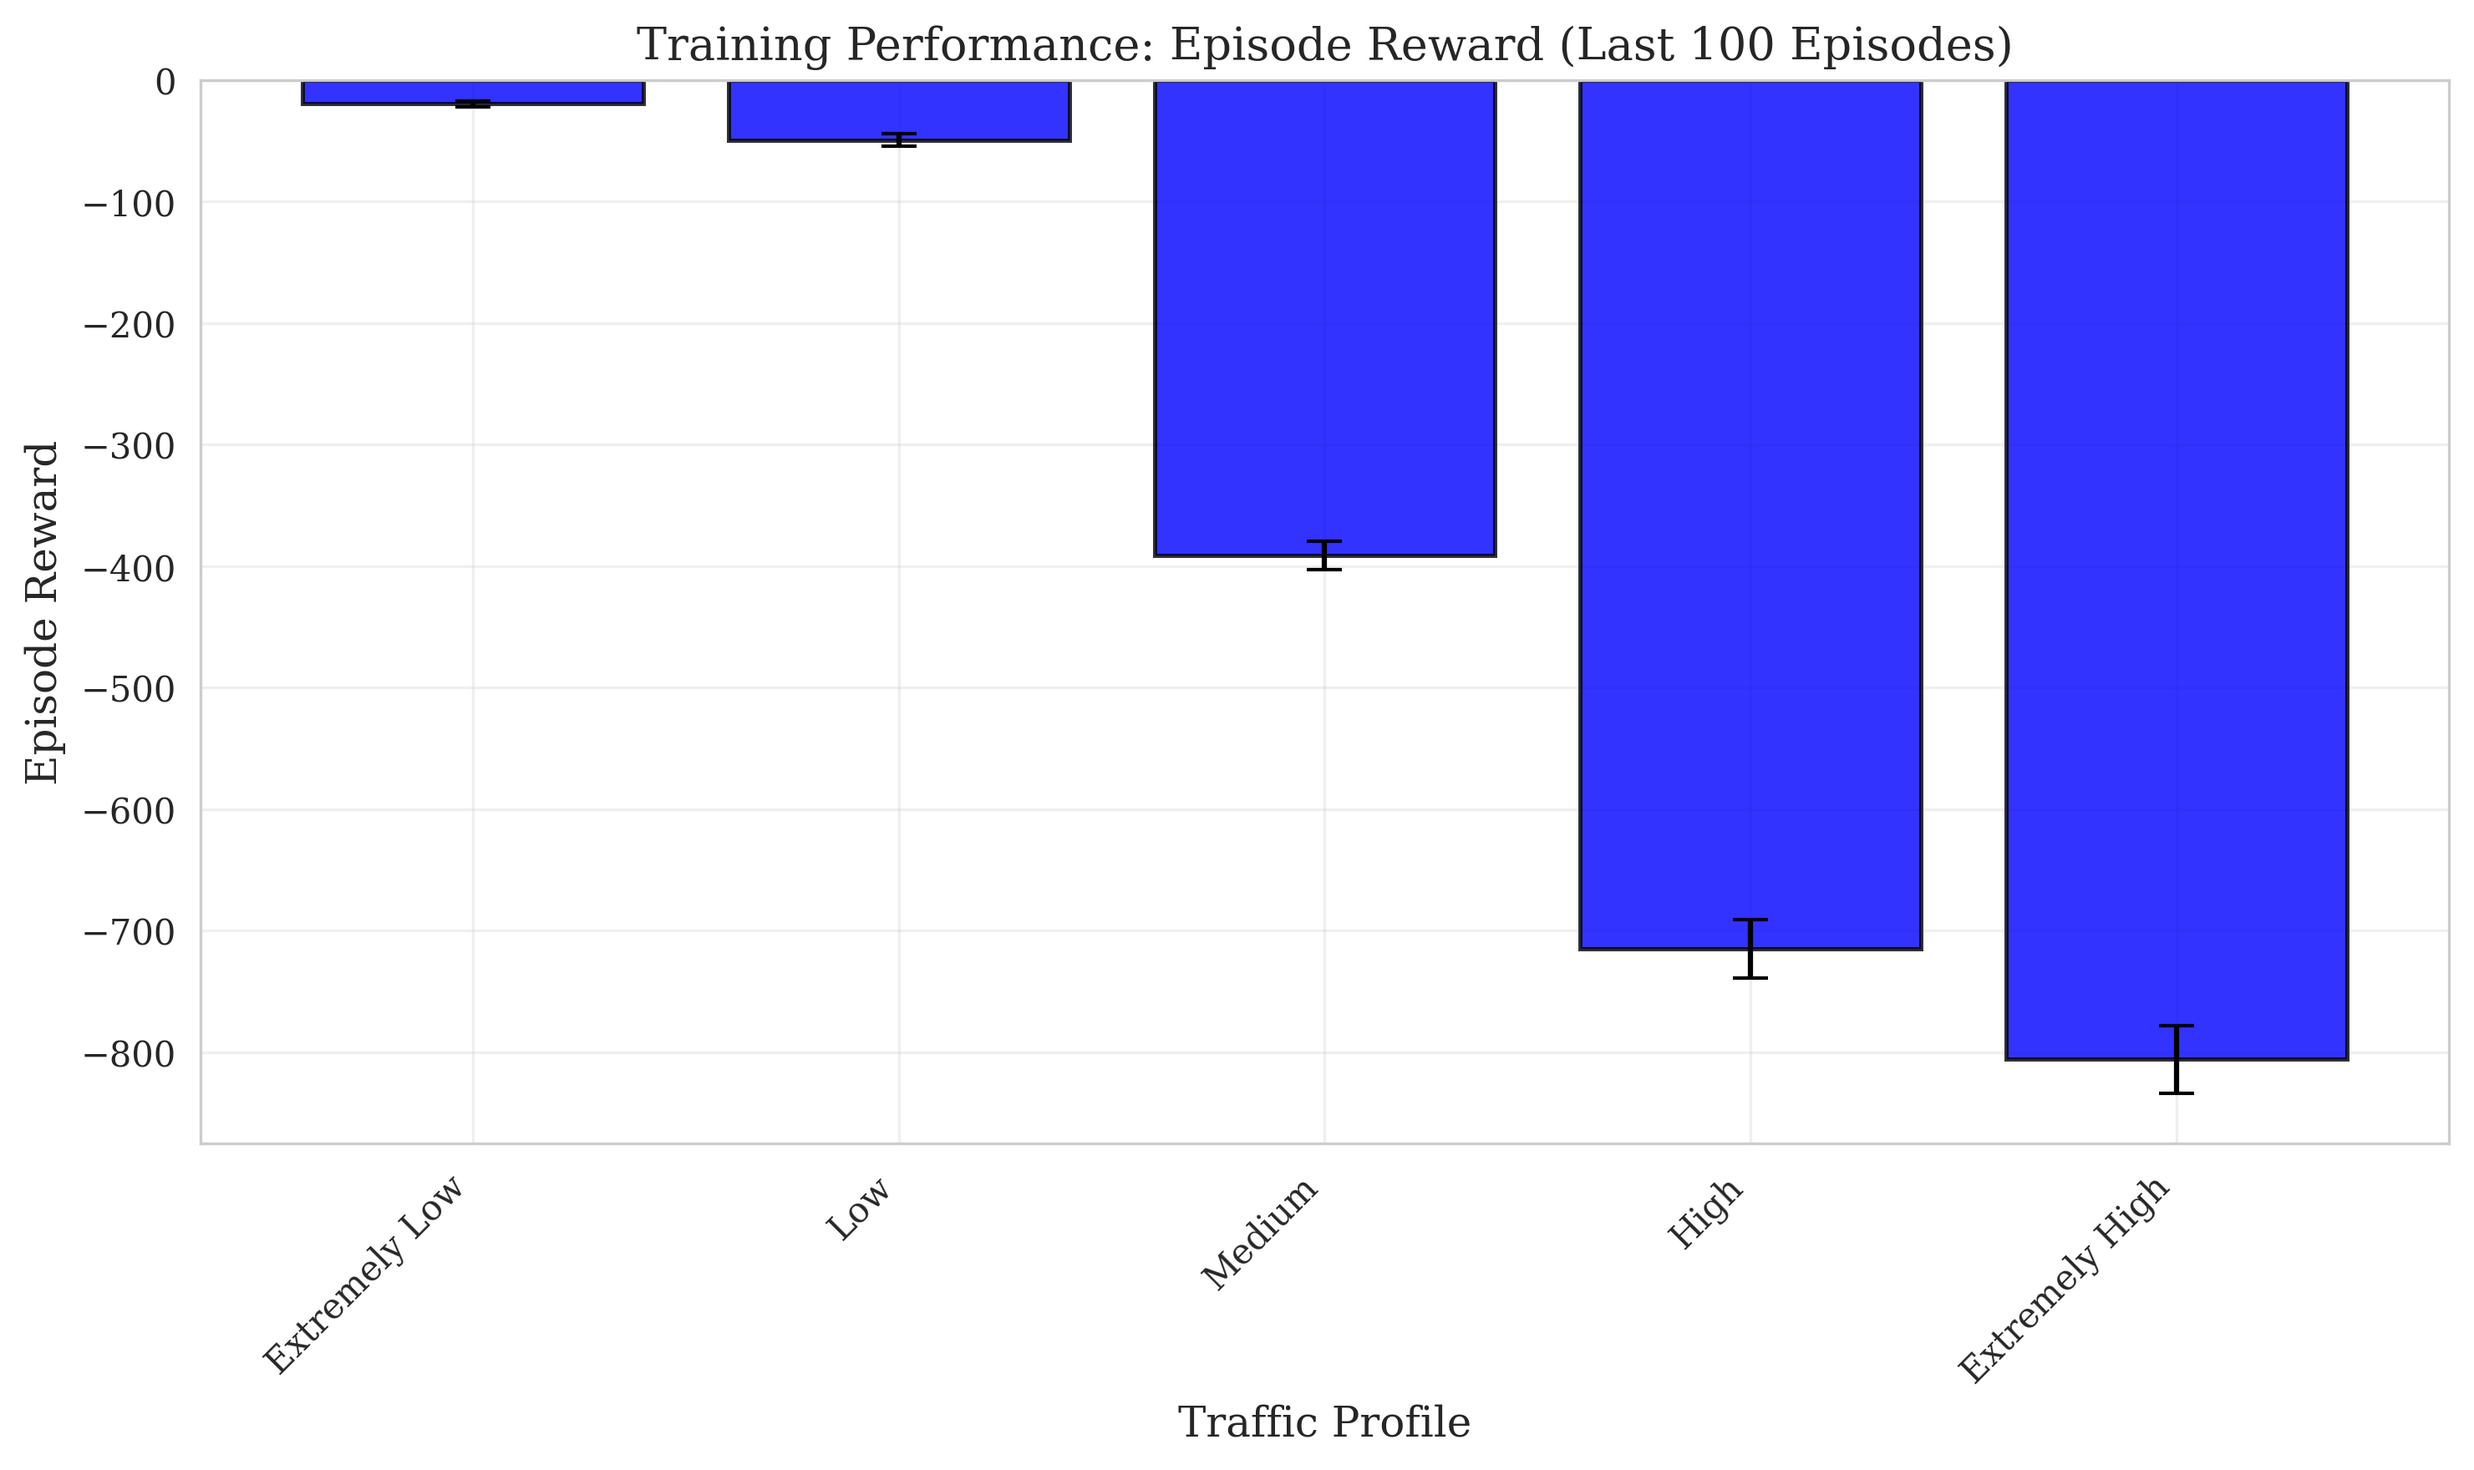
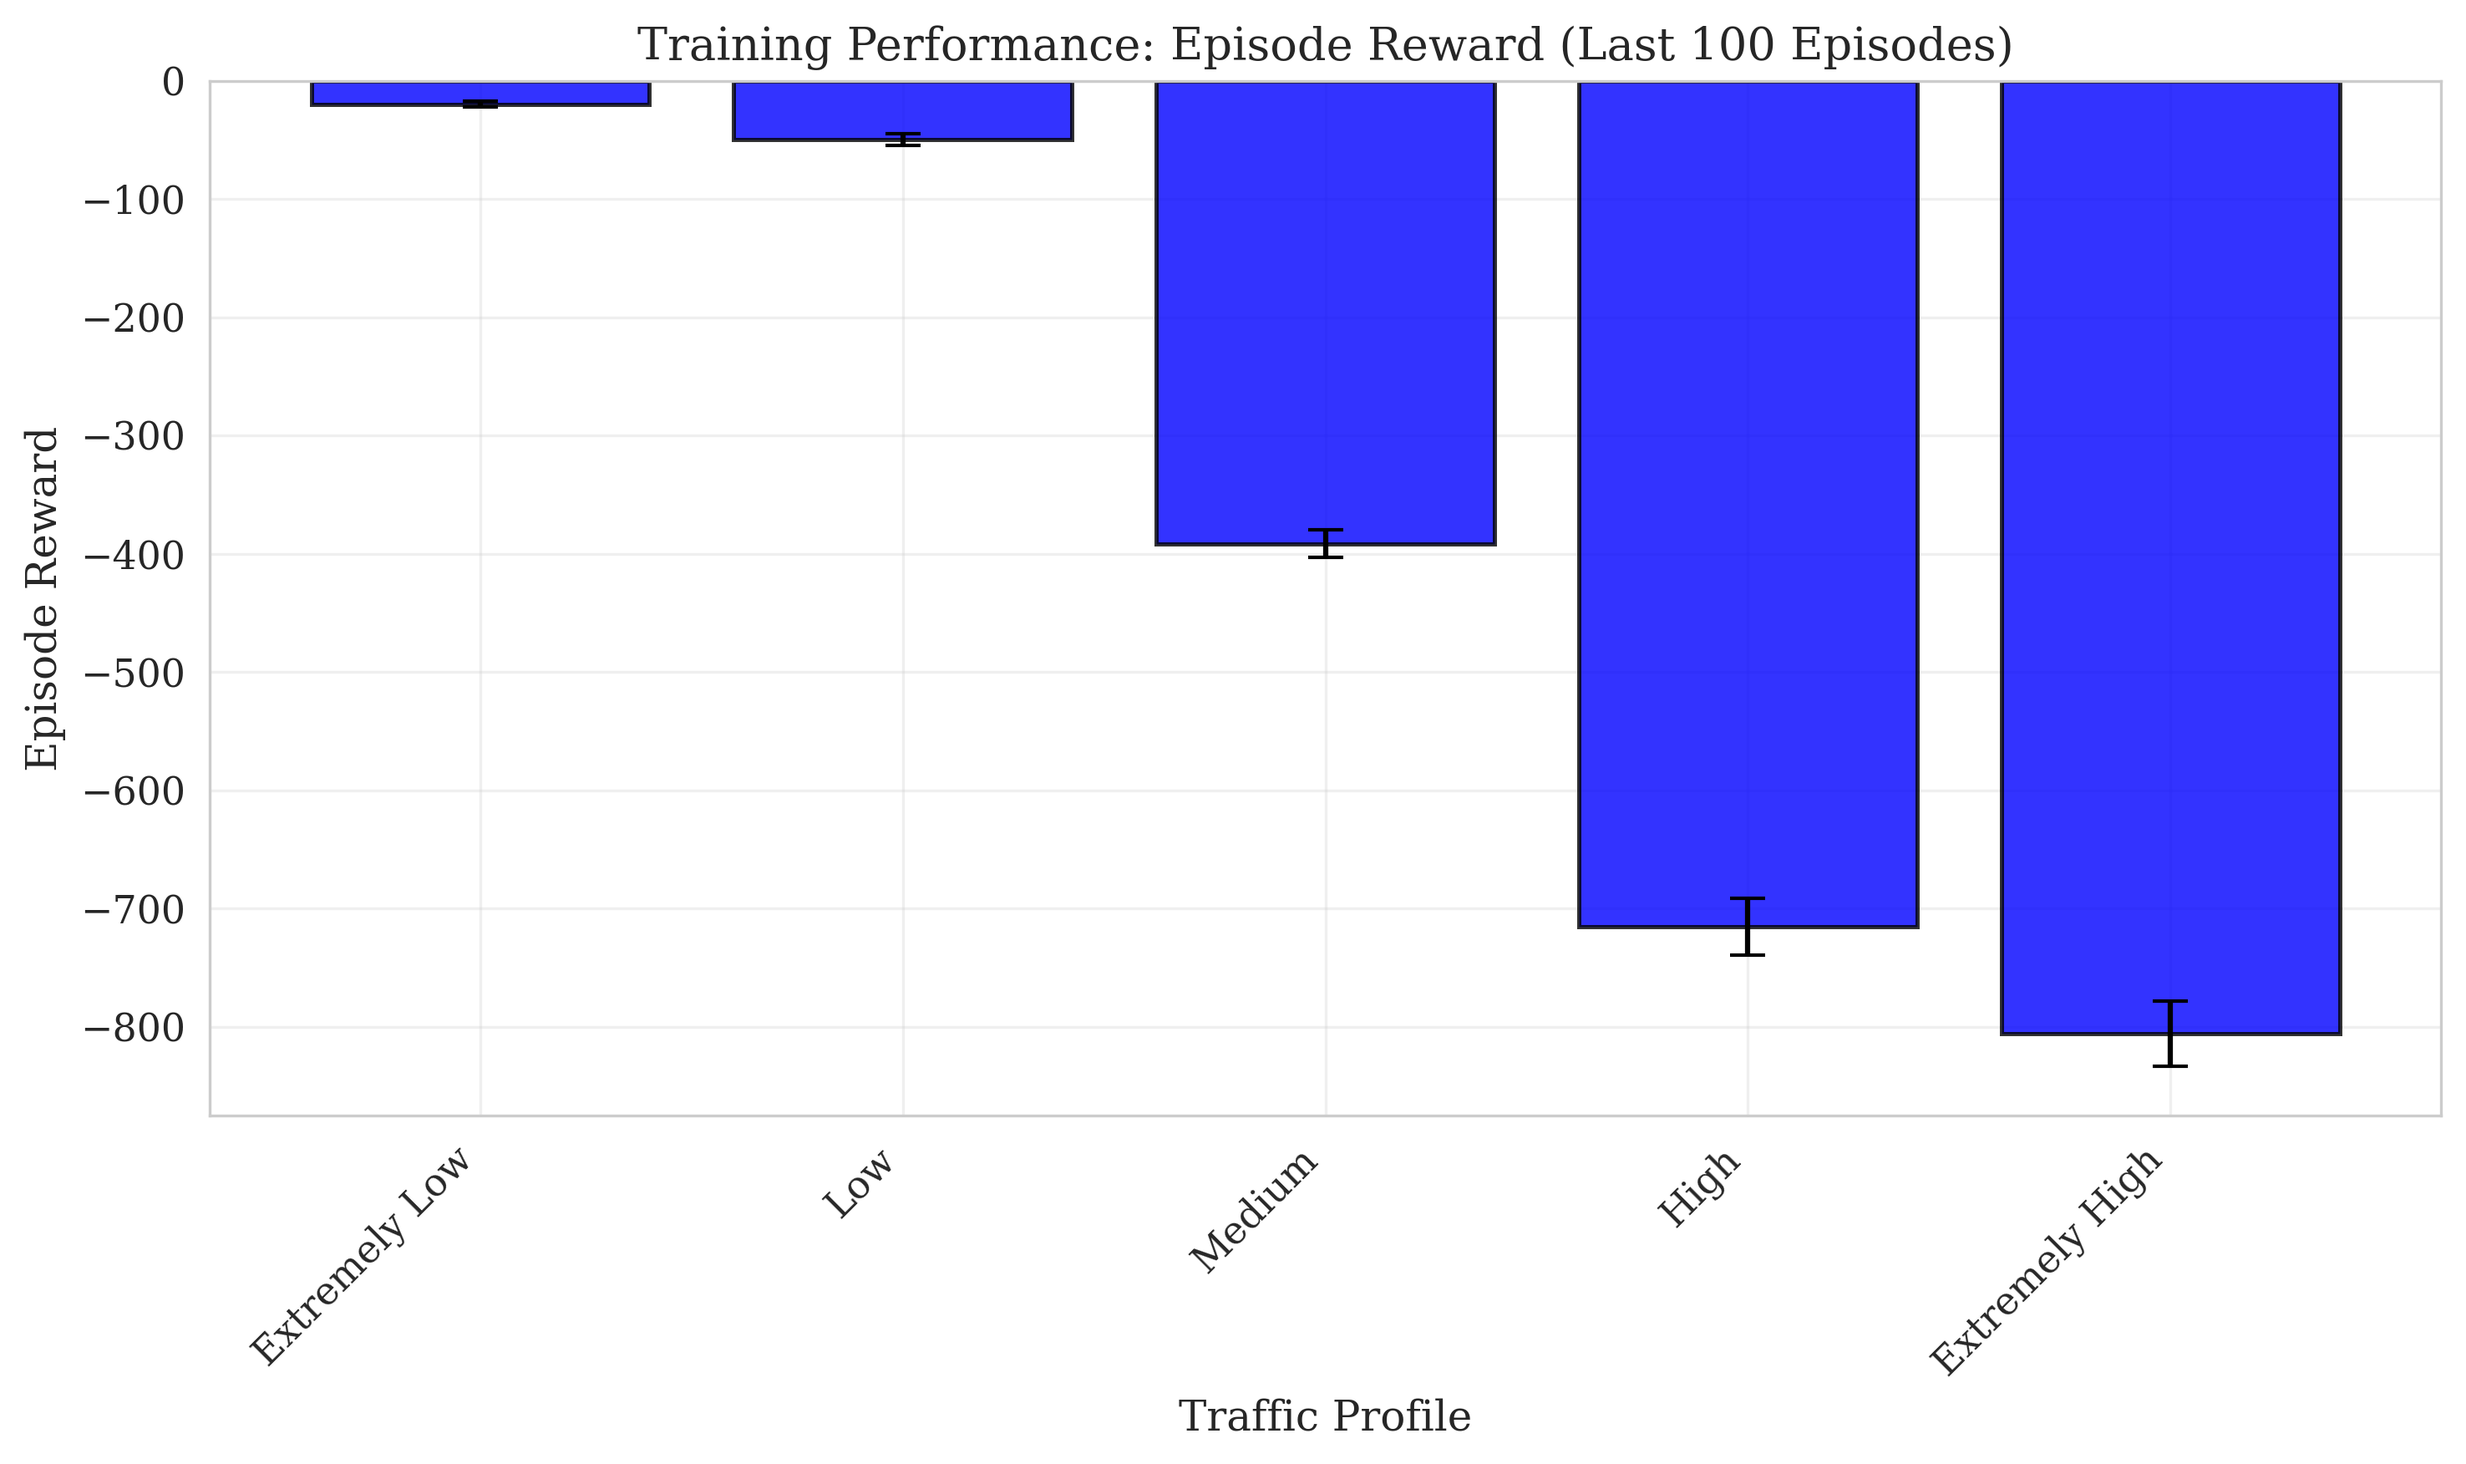
ver2.7

diff --git a/step2_generate_figures.py b/step2_generate_figures.py
@@ -29,13 +29,13 @@ FIGURE_FORMAT = 'png'
 sns.set_style("whitegrid")
 plt.rcParams.update({
     'figure.dpi': FIGURE_DPI,
-    'font.size': 11,
+    'font.size': 12,
     'font.family': 'serif',
     'axes.labelsize': 12,
     'axes.titlesize': 13,
-    'xtick.labelsize': 10,
-    'ytick.labelsize': 10,
-    'legend.fontsize': 10,
+    'xtick.labelsize': 11,
+    'ytick.labelsize': 11,
+    'legend.fontsize': 12,
     'lines.linewidth': 1.5,
     'grid.alpha': 0.3,
 })
